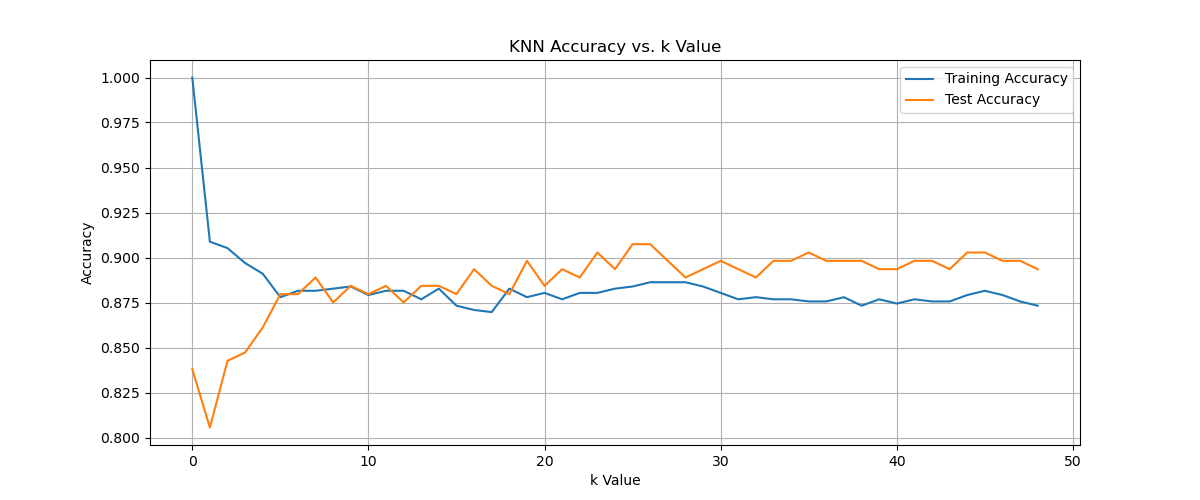
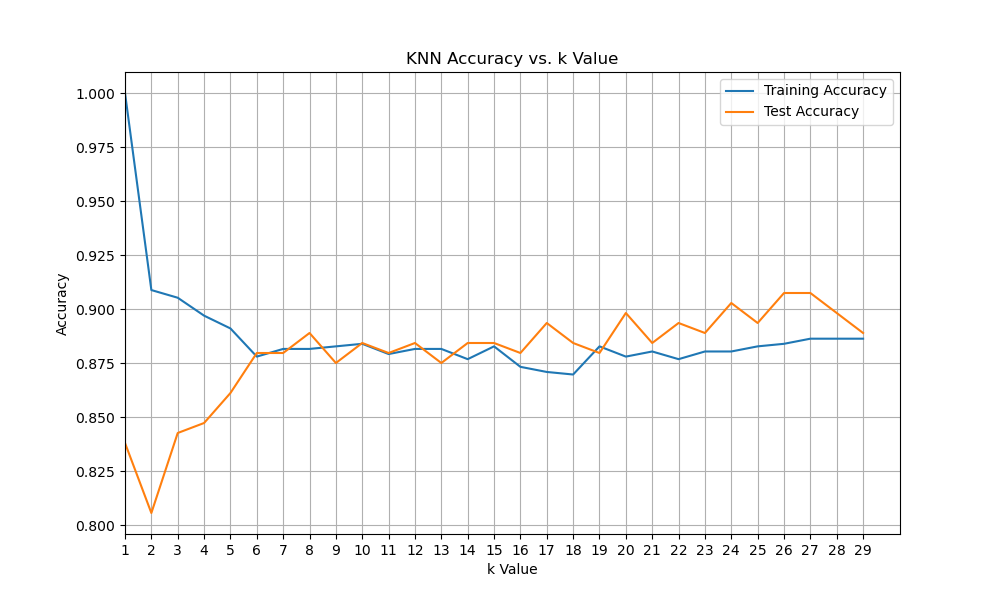
knn

Changed region(s): [[0.062, 0.06, 0.899, 0.99]]

diff --git a/KNN/KNN.py b/KNN/KNN.py
@@ -30,7 +30,7 @@ if __name__ == "__main__":
     X_train, t_train, X_valid, t_valid, X_test, t_test = split_dataset(df=df, val_size=200, test_size=216)
     train_acc = []
     test_acc = []
-    for k in range(1, 50):
+    for k in range(1, 30):
         clf = KNeighborsClassifier(k)
         clf.fit(X_train, t_train)
         train_acc.append(clf.score(X_train, t_train))
@@ -43,15 +43,17 @@ if __name__ == "__main__":
     print(f"optimize test acc: {opt_test_acc}")
     print(f"optimize k: {opt_k + 1}")
     
-    k_values = list(range(1, 50))  # Assuming k values range from 1 to 12 for demonstration
+    k_values = list(range(1, 30))  # Assuming k values range from 1 to 12 for demonstration
 
 # Plotting
-    plt.figure(figsize=(12, 5))
-    plt.plot(train_acc, label='Training Accuracy')
-    plt.plot(test_acc, label='Test Accuracy')
+    plt.figure(figsize=(10, 6))
+    plt.plot(k_values, train_acc, label='Training Accuracy')
+    plt.plot(k_values, test_acc, label='Test Accuracy')
     plt.title('KNN Accuracy vs. k Value')
     plt.xlabel('k Value')
     plt.ylabel('Accuracy')
     plt.legend()
     plt.grid(True)
+    plt.xlim(left=1)
+    plt.xticks(k_values)
     plt.savefig("KNNgraph.png")
